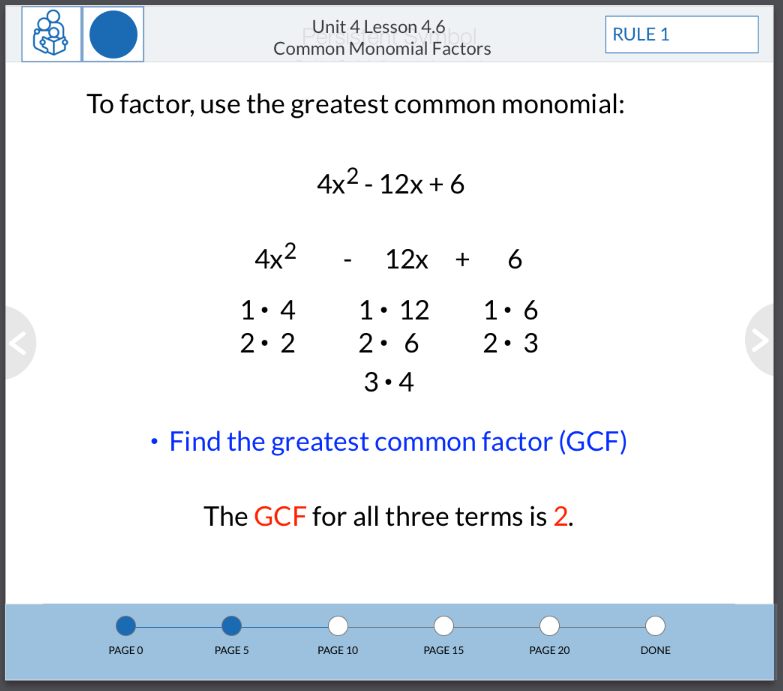
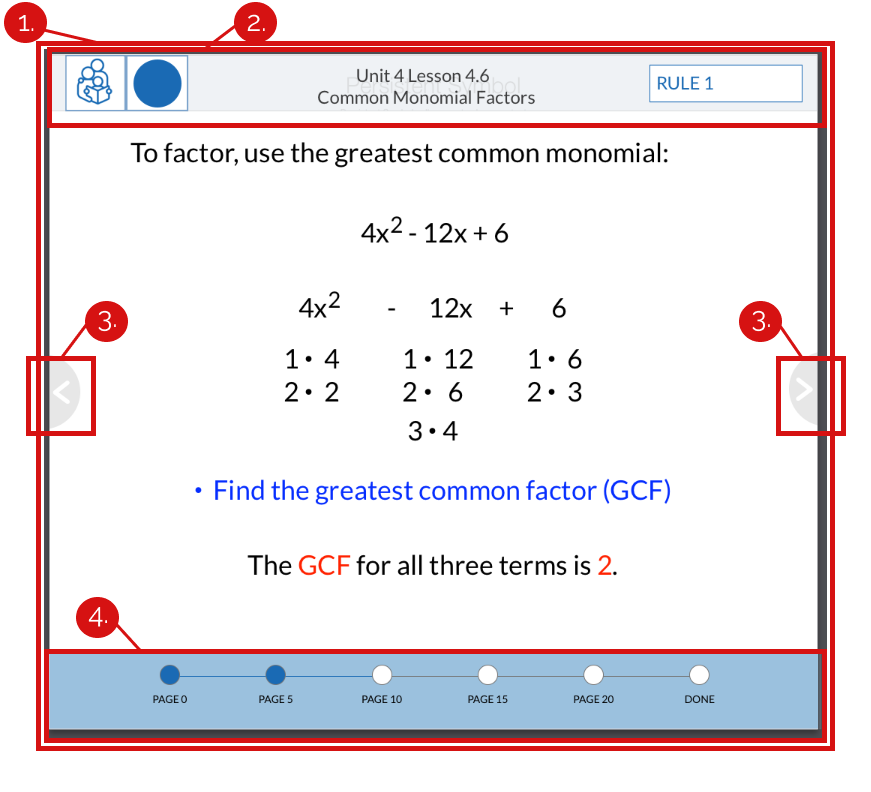
added project key findings

diff --git a/src/Pages/flcincRedesign.js b/src/Pages/flcincRedesign.js
@@ -6,7 +6,7 @@ import Typography from '@mui/material/Typography';
 import Box from '@mui/material/Box';
 
 import LessonPlanHeuristic from '../Images/algebra1images/heuristicimages/ruleone-old.png';
-
+import LessonPlanHeuristicNew from '../Images/algebra1images/heuristicimages/ruleone-new.png';
 
 const Everything = {
   display: 'grid',
@@ -218,7 +218,7 @@ return (
   Team Two:
 </Typography>
 <Typography sx={flcInfo}>
-  Erica, Lesson Plan Editor 
+  Erica, Lesson Plan Content Editor 
 </Typography>
 </Col>
   <Col>
@@ -255,11 +255,11 @@ return (
 
 <Box sx={boxStylesB}>
   <Container>
-<Typography sx={headerStylesB}>1st Team Challenge</Typography>
+<Typography sx={headerStylesB}>1st and 2nd Team Challenge</Typography>
 <Typography sx={paragraphA}>The Family Literacy Centers needed updated digital designs to their Algebra 1 online program. Their current software 
 supported outdated Flash technology, which made it to where many young learners could not access their content. 
 From January 2018 to December 2020, I worked with the Family Literacy Centers stakeholders as their primary designer for a page layout redesign 
-that also fit current coding practices so that young students can access trustworthy and engaging software to very challenging content.</Typography>
+that also fit current coding practices so that young students can access trustworthy and engaging educational software.</Typography>
 </Container>
 <Container>
 <Typography sx={headerStylesB}>My Role: UX/UI Project Manager</Typography>
@@ -308,13 +308,13 @@ export the redesign into HTML5. </Typography>
  1. Outdated Top Navigation Bar. Missing a way to return to main page.
 </Typography >
 <Typography sx={paragraphB}>
-  2. Call-To-Action Buttons are too tight and draw too much attention
+  2. Call-To-Action Buttons are too tight and draw too much attention.
 </Typography>
 <Typography sx={paragraphB}>
-  3. Colors are very harsh for student readability
+  3. Colors are very harsh for student readability.
 </Typography>
 <Typography sx={paragraphB}>
-  4. A numbered progress gets overlooked 
+  4. A numbered progress gets overlooked. 
 </Typography>
 </Col>
 
@@ -349,32 +349,32 @@ export the redesign into HTML5. </Typography>
 
 <Container>
 
-<Typography sx={headerStylesB}>Algebra 1 Redesign</Typography>
+<Typography sx={headerStylesB}>Algebra 1 Lesson Plan Redesign</Typography>
 
-<Typography sx={paragraphB}>Aaron completed the first lesson in the first module redesign. The Algebra 1 program contained 15 modules and 
-4 - 12 lessons in each module. Discovering a user-friendly layout included quite a few different design possibilities and several iterations. 
-We were very new to UX/UI design and I wish I knew about A/B testing back then. It would have solved any differing opinions about 
-different iterations as a team. The Family Literacy Centers offered an internship opportunity to continue the redesign. While my teammates 
-had other summer plans, I continued working on the redesign.</Typography>
+<Typography sx={paragraphB}>The Algebra 1 program contained 15 modules and 4 - 12 lessons in each module. Discovering a user-friendly 
+layout included quite a few different needs listed on the left. The Family Literacy Centers offered an internship 
+opportunity to continue the redesign. While my teammates had other summer plans, I continued working on the redesign with UI design principles 
+in mind. We also brought on Erica, a content editor, as she noticed some grammar, spelling, and punctuation mistakes made througout the 
+original lessons.</Typography>
 
 
-<Typography sx={sectiontitleB}>Algebra 1 Lesson Plan Redesign</Typography>
-
-<Typography sx={sectiontitleB}>Key Changes and Rationale:</Typography>
+<Typography sx={sectiontitleB}>Key Design Changes and Rationale:</Typography>
 
 <Row>
 <Col>
 <Typography sx={paragraphB}>
- 1. Colors for better readability
+ 1. Calmer colors out of their style guide for better readability.
 </Typography>
 <Typography sx={paragraphB}>
-  2. Consistency for trustworthy usability
+  2. Clearer top navigation for lesson location.
 </Typography>
 <Typography sx={paragraphB}>
-  3. Call-to-action buttons for information design
+  3. Left and right buttons originally drew too much attention. We wanted our students to focus on 
+  page content instead. These buttons only appear as accessible on hover, when the student is ready 
+  to click on them.
 </Typography >
 <Typography sx={paragraphB}>
-  4. Visual progress for clarity to avoid the "Are we there yet?" question 
+  4. Visual progress for clarity to avoid the "Are we there yet?" question. 
 </Typography>
 </Col>
 
@@ -383,8 +383,8 @@ had other summer plans, I continued working on the redesign.</Typography>
 <Card sx={imageStylesB}>
       <CardMedia
         component="img"
-        alt="Original Algebra 1 program"
-        image={LessonPlanHeuristic}
+        alt="New Algebra 1 Program"
+        image={LessonPlanHeuristicNew}
        
       />
      
@@ -399,6 +399,38 @@ had other summer plans, I continued working on the redesign.</Typography>
 
 </Box> 
 
+
+<Box sx={boxStylesA}>
+
+<Container>
+<Typography sx={headerStylesA}>1st and 2nd Project Key Findings</Typography>
+
+<Row>
+<Col>
+<Typography sx={paragraphB}>
+ 1. We could resolve the first quest to update Flash files into current HTML5 practices.
+</Typography>
+<Typography sx={paragraphB}>
+  2. The information architecture needed more clarity with mental model placements and modern color choices.
+</Typography>
+<Typography sx={paragraphB}>
+  3. Some of the lessons had poor grammar and spelling mistakes. We brought on an editor to help fix these issues.
+</Typography >
+<Typography sx={paragraphB}>
+  4. Updating the lesson plans provided even more opportunity. 
+</Typography>
+</Col>
+
+
+
+
+</Row>
+
+</Container>
+
+
+
+</Box>
 
 
 </Box>
